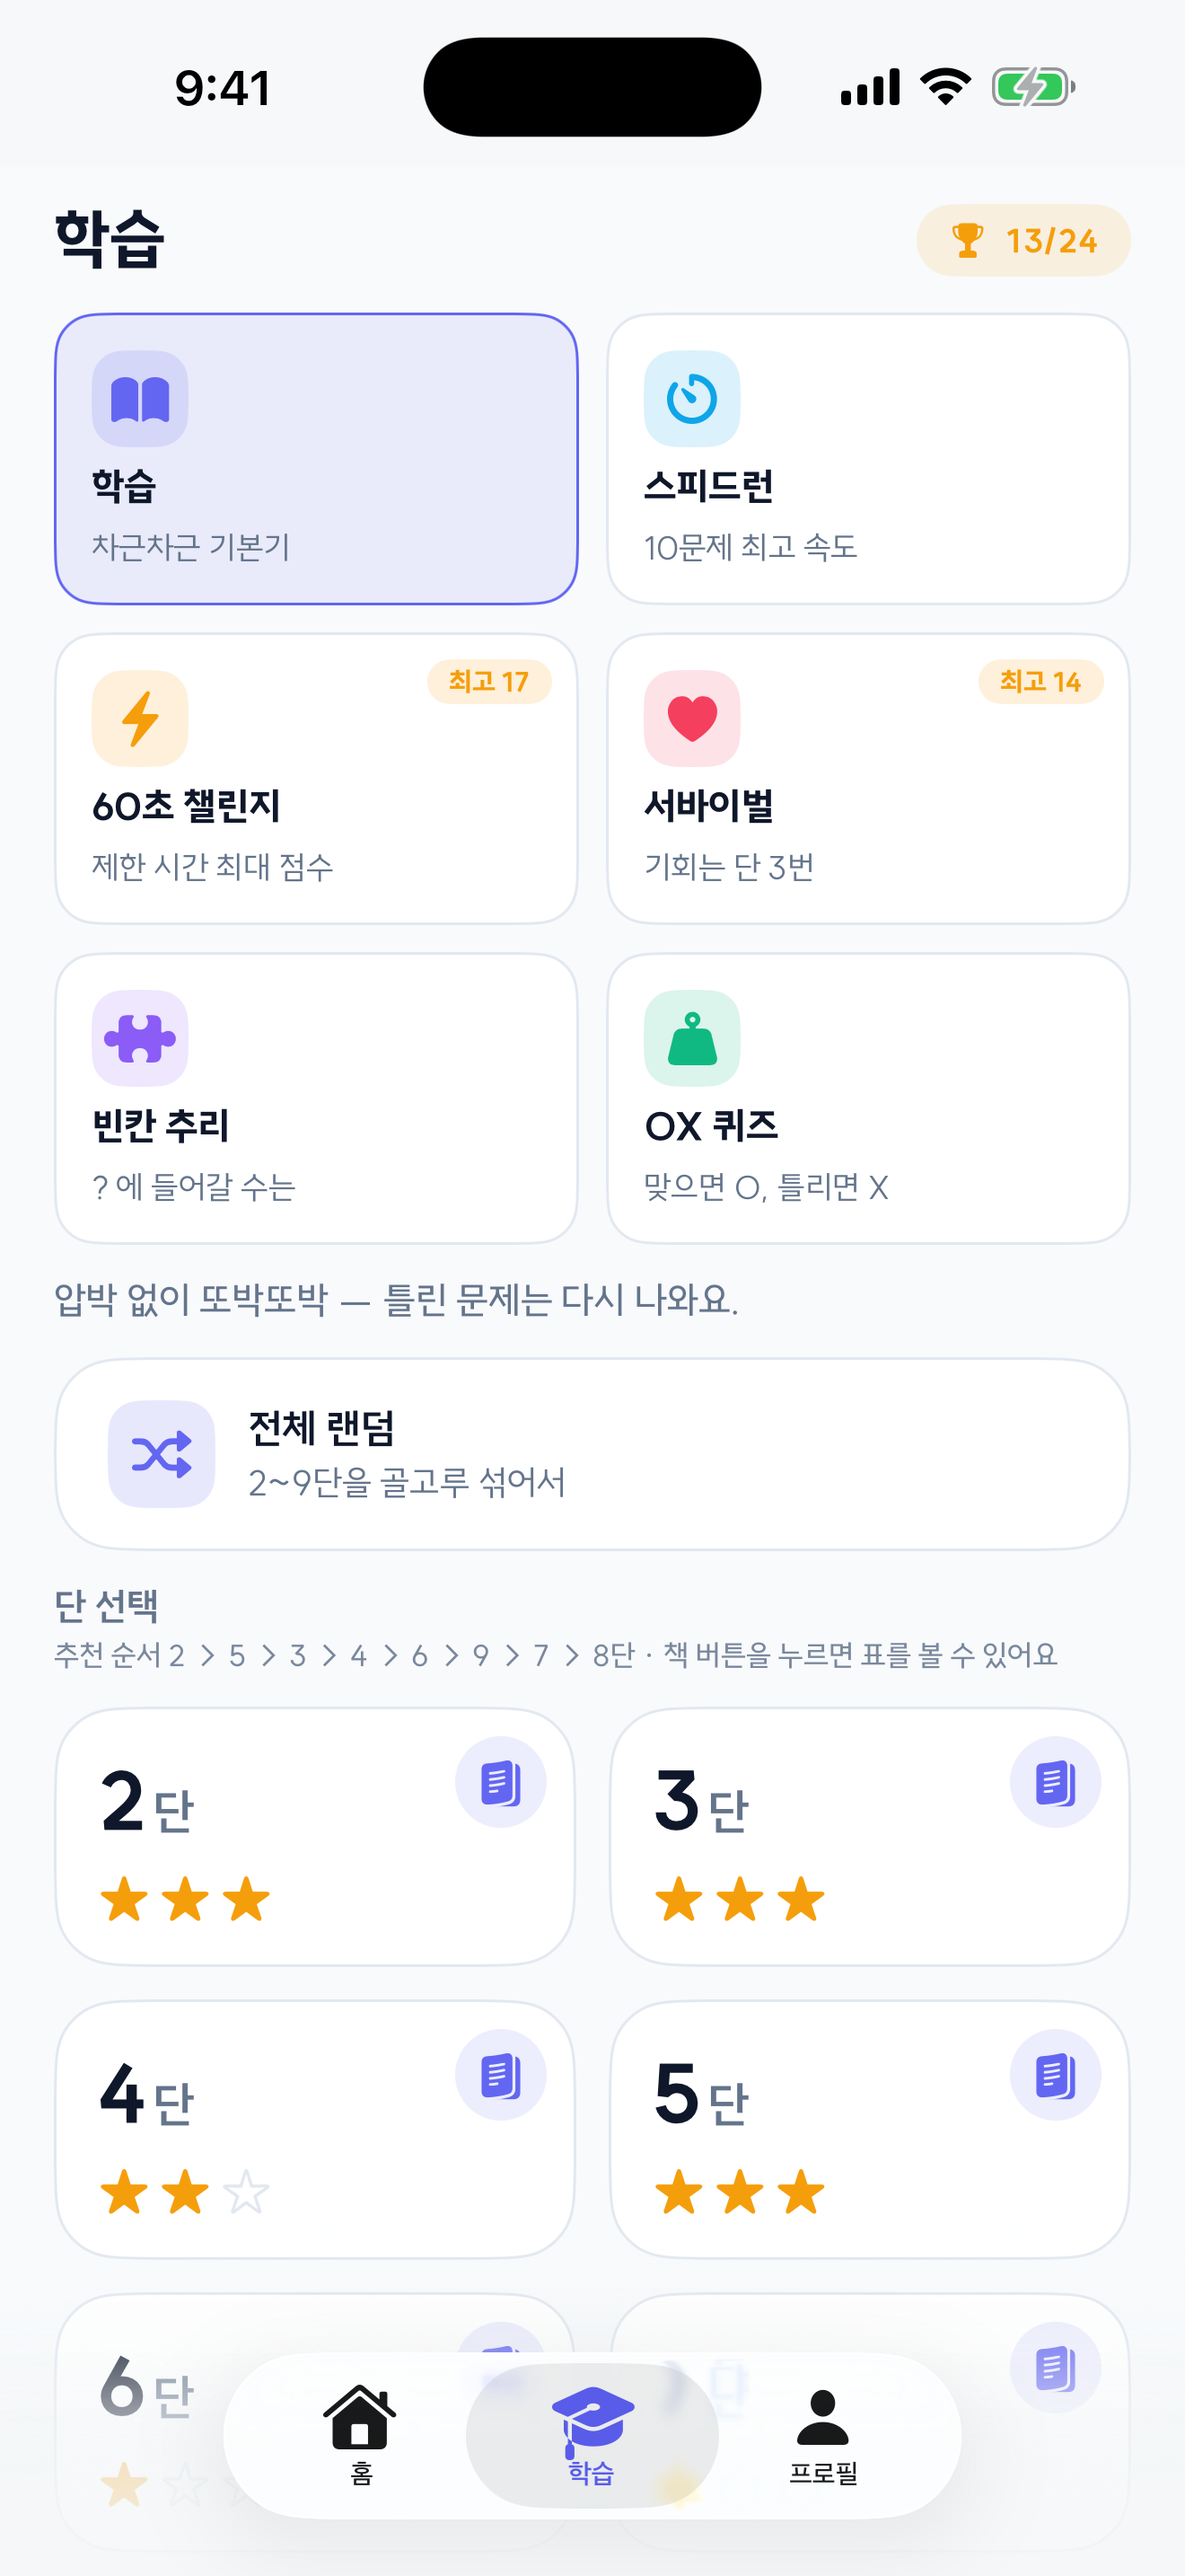
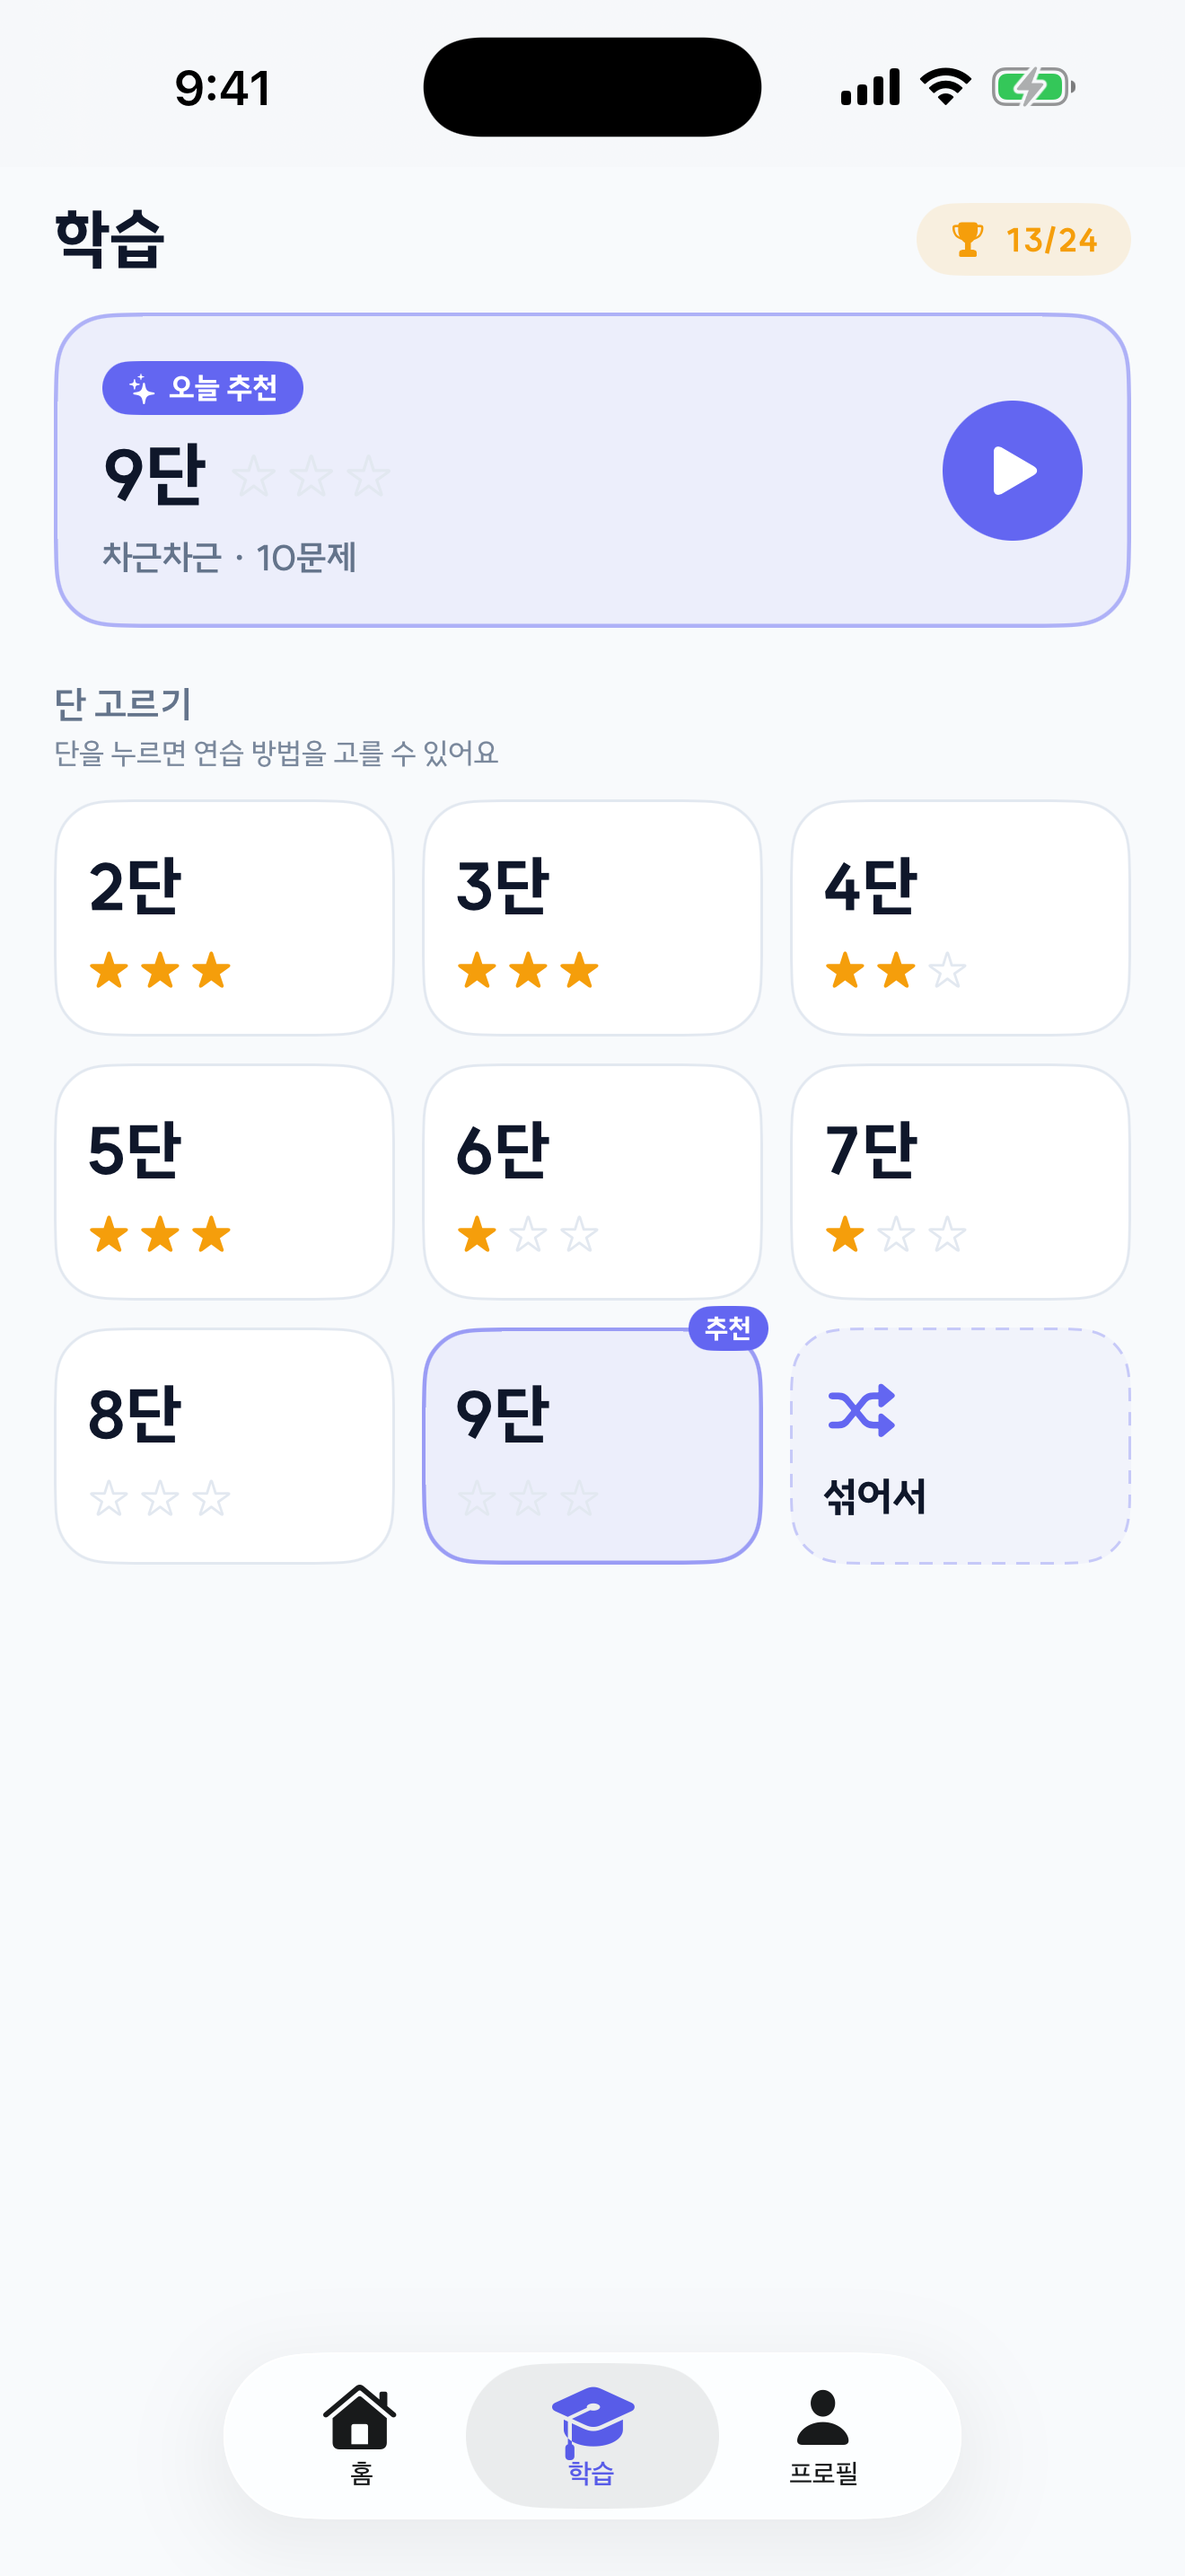
스토어 자산 2.7.0 — 스크린샷(학습 탭·구구 팡팡)·헤더·검색 결과 크리에이티브
- screenshots-2.7.0: ko·en·ja iPhone 9장·iPad 7장, Play 폰 8장·태블릿 7장
  (구구 팡팡 장 추가, '6가지 게임 모드' → 새 학습 탭, Play 폰은 8장 상한이라 미니게임 장 대신 팡팡)
- 원본 재촬영: 홈(오늘 추천 단 카드)·표(뒤에 옛 학습 탭이 비치던 것)·학습·팡팡
- creative-2.7.0: ko·en·ja 헤더 21:9·검색 결과 3:2 — 새 홈·구구 팡팡 화면, 새 아이콘

diff --git a/store-assets/creative-2.7.0/creative.py b/store-assets/creative-2.7.0/creative.py
@@ -1,0 +1,118 @@
+"""App Store 크리에이티브 자산 (2.7.0 한국어·영어·일본어) — 제품 페이지 헤더(21:9) · 검색 결과(3:2).
+
+사용: python3 creative.py [ko|en|ja]
+규격(App Store Connect Help, Creative assets specifications):
+  헤더 21:9 3840x1646, 검색 결과 3:2 3840x2560 — JPEG/PNG, 알파 채널 금지.
+가이드: 실제 UI, 초점은 가운데(기기별로 좌우가 잘림), 짧은 문구, 가격·URL·수상 표기 금지, 4+ 등급.
+구성·문구는 2.6.0 판(creative-2.6.0)과 같고, 화면만 2.7.0 원본으로 바꾼다 — 새 홈(오늘 추천 단)과 미니게임 자리에
+새 아케이드 게임 구구 팡팡. 한국어 원본은 screenshots-2.3.0/raw/ios, 영어·일본어는 screenshots-2.6.0/raw/ios-{언어}.
+글꼴은 screenshots-2.6.0/compose.py 의 언어별 글꼴(한국어·영어 SUITE, 일본어 M PLUS Rounded 1c)을 쓴다.
+"""
+import os
+import sys
+
+from PIL import Image, ImageDraw
+
+HERE = os.path.dirname(os.path.abspath(__file__))
+STORE = os.path.join(HERE, "..")
+RAW = {"ko": os.path.join(STORE, "screenshots-2.3.0", "raw", "ios"),
+       "en": os.path.join(STORE, "screenshots-2.6.0", "raw", "ios-en"),
+       "ja": os.path.join(STORE, "screenshots-2.6.0", "raw", "ios-ja")}
+LANGS = [sys.argv[1]] if len(sys.argv) > 1 else ["ko", "en", "ja"]
+sys.argv = [sys.argv[0], HERE]          # compose.py 가 출력 폴더 인자를 읽는다 — 함수만 빌려 쓴다
+sys.path.insert(0, os.path.join(STORE, "screenshots-2.6.0"))
+import compose  # noqa: E402
+from compose import gradient, tile, rounded, device, shadow, ICON  # noqa: E402
+
+BG = ("#6366F1", "#3730A3")             # 홈 슬라이드·앱 아이콘과 같은 인디고 계열
+APP_NAME = {"ko": "구구 어드벤처", **compose.APP_NAME}
+COPY = {
+    "ko": ("구구단이 모험이 된다", "3D 월드 · 배틀 · 미니게임으로 매일 1분"),
+    "en": ("Times tables, now an adventure", "3D world · battles · mini-games, one minute a day"),
+    "ja": ("九九が冒険になる", "3Dワールド・バトル・ミニゲームで毎日1分"),
+}
+
+
+def font(weight, size):
+    return compose.font(weight, size)
+
+
+def phone(lang, name, screen_w):
+    return device(Image.open(os.path.join(RAW[lang], name + ".png")), screen_w, "phone")
+
+
+def place(img, dev, cx, top, u, angle=0):
+    if angle:
+        dev = dev.rotate(angle, resample=Image.BICUBIC, expand=True)
+    blur = round(36 * u)
+    sh = shadow(dev, blur, 100)
+    x = round(cx - dev.width / 2)
+    img.alpha_composite(sh, (x - 2 * blur, top - 2 * blur + round(26 * u)))
+    img.alpha_composite(dev, (x, top))
+
+
+def motifs(img, W, H, u, spots):
+    tint, gtint = (255, 255, 255, 40), (55, 48, 163, 150)
+    for fx, fy, size, ang, g in spots:
+        t = tile(round(size * u), g, tint, gtint, ang)
+        img.alpha_composite(t, (round(fx * W - t.width / 2), round(fy * H - t.height / 2)))
+
+
+def headline(img, W, y, u, title_size, sub_size, lang):
+    title, sub = COPY[lang]
+    name = APP_NAME[lang]
+    d = ImageDraw.Draw(img)
+    icon = rounded(Image.open(ICON).convert("RGBA").resize((round(88 * u),) * 2, Image.LANCZOS), round(20 * u))
+    name_f = font("ExtraBold", round(46 * u))
+    total = icon.width + round(18 * u) + name_f.getlength(name)
+    x0 = round((W - total) / 2)
+    img.alpha_composite(icon, (x0, y))
+    d.text((x0 + icon.width + round(18 * u), y + icon.height / 2), name, font=name_f, fill=(255, 255, 255), anchor="lm")
+    y += icon.height + round(30 * u)
+    tf = font("Heavy", round(title_size * u))
+    d.text((W / 2, y), title, font=tf, fill=(255, 255, 255), anchor="ma")
+    y += round(tf.size * 1.22)
+    sf = font("SemiBold", round(sub_size * u))
+    d.text((W / 2, y), sub, font=sf, fill=(224, 231, 255), anchor="ma")
+    return y + round(sf.size * 1.7)
+
+
+def header(lang):
+    """21:9 — 가운데 좁은 영역만 보여도 성립하게: 문구·주인공 화면(3D 월드)을 중앙에, 새 홈·구구 팡팡을 그 양옆에"""
+    W, H = 3840, 1646
+    u = 1.0
+    img = gradient(W, H, *BG).convert("RGBA")
+    motifs(img, W, H, u, [(0.06, 0.30, 190, -12, "×"), (0.94, 0.26, 170, 10, "9"),
+                          (0.12, 0.82, 150, 8, "★"), (0.89, 0.80, 200, -8, "2")])
+    y = headline(img, W, round(70 * u), u, 112, 48, lang)
+    w = 470
+    # 양옆 → 가운데 순으로 겹쳐 그린다 (가운데가 맨 위)
+    for name, dx, dy, ang in (("07-report", -1260, 150, 6), ("03-battle", 1260, 150, -6),
+                              ("01-home", -660, 60, 3), ("09-pop", 660, 60, -3)):
+        place(img, phone(lang, name, w), W / 2 + dx, y + dy, u, ang)
+    place(img, phone(lang, "02-world", 540), W / 2, y - 10, u)
+    return img.convert("RGB")
+
+
+def search(lang):
+    """3:2 — 검색 결과 카드: 문구 + 기기 3대(배틀 · 3D 월드 · 구구 팡팡)"""
+    W, H = 3840, 2560
+    u = 1.3
+    img = gradient(W, H, *BG).convert("RGBA")
+    motifs(img, W, H, u, [(0.07, 0.40, 170, -12, "×"), (0.93, 0.36, 160, 10, "9"),
+                          (0.08, 0.86, 150, 8, "★"), (0.92, 0.88, 180, -8, "2")])
+    y = headline(img, W, round(110 * u), u, 120, 52, lang)
+    for name, dx, dy, ang, w in (("03-battle", -980, 120, 4, 760), ("09-pop", 980, 120, -4, 760),
+                                 ("02-world", 0, 0, 0, 860)):
+        place(img, phone(lang, name, w), W / 2 + dx, y + dy, u, ang)
+    return img.convert("RGB")
+
+
+if __name__ == "__main__":
+    for lang in LANGS:
+        compose.LANG = lang
+        for name, im in ((f"header-21x9-3840x1646-{lang}.png", header(lang)),
+                         (f"search-3x2-3840x2560-{lang}.png", search(lang))):
+            path = os.path.join(HERE, name)
+            im.save(path, optimize=True)
+            print(name, im.size, im.mode, os.path.getsize(path) // 1024, "KB")

diff --git a/store-assets/screenshots-2.6.0/compose.py b/store-assets/screenshots-2.6.0/compose.py
@@ -29,7 +29,8 @@ COPY = {
         "session": ("A teacher reads aloud", "Every problem, read aloud · even offline"),
         "table": ("See it, hear it, learn it", "Tips for every table, plus Listen & Learn"),
         "minigame": ("Run, jump, multiply", "Gugu Jump · Lanes · Basket"),
-        "learn": ("6 game modes", "From Speed Run to True or False"),
+        "learn": ("Pick a table, play now", "Today's pick and every table from 2 to 9"),
+        "pop": ("Pop the right balloons", "Burst only the answers, then beat the boss"),
         "report": ("See the progress", "Weekly reports show the trickiest problems"),
     },
     "ja": {
@@ -39,7 +40,8 @@ COPY = {
         "session": ("先生が読み上げる", "問題を声で聞ける・オフラインでもOK"),
         "table": ("見て、聞いて、おぼえる", "「ににんが し」伝統の唱え方を先生の声で"),
         "minigame": ("走って解く九九", "ジャンプ・レーン・バスケットで体を動かそう"),
-        "learn": ("6つのゲームモード", "スピードランから○×クイズまで"),
+        "learn": ("段をえらんで すぐスタート", "きょうのおすすめと 2〜9の段が ひと目で"),
+        "pop": ("ふうせんをパン！で九九", "ミッションに あう数だけ わって ボスをたおそう"),
         "report": ("成長が目に見える", "週間レポートでよく間違える問題もひと目で"),
     },
 }
@@ -58,8 +60,10 @@ SLIDES = {
                     bg=("#FCD34D", "#F59E0B"), dark=True, glyphs="7×★"),
     "minigame": dict(title="달리며 푸는 구구단", sub="점프 · 레인 · 바구니, 움직이며 놀아요",
                      bg=("#2DD4BF", "#0F766E"), glyphs="×5?"),
-    "learn":   dict(title="6가지 게임 모드", sub="스피드런부터 OX 퀴즈까지",
+    "learn":   dict(title="단 고르고 바로 시작", sub="오늘 추천 단부터 2~9단까지 한눈에",
                     bg=("#FDE68A", "#FBBF24"), dark=True, glyphs="60×"),
+    "pop":     dict(title="풍선 팡팡, 구구단!", sub="미션에 맞는 풍선만 터뜨리고 보스를 물리쳐요",
+                    bg=("#38BDF8", "#2563EB"), glyphs="★×8"),
     "report":  dict(title="성장이 눈에 보여요", sub="주간 리포트로 자주 틀린 문제까지 한눈에",
                     bg=("#334155", "#0F172A"), glyphs="★17"),
 }
@@ -68,23 +72,26 @@ SETS_ALL = {
     # 출력명: (캔버스, 원본폴더, [(순번-이름, 원본파일, 슬라이드)], 기기 종류)
     "ios-phone": ((1320, 2868), "ios", [
         ("01-home", "01-home", "home"), ("02-world", "02-world", "world"), ("03-battle", "03-battle", "battle"),
-        ("04-read-aloud", "04-session", "session"), ("05-table", "05-table", "table"),
-        ("06-minigame", "07-minigame", "minigame"), ("07-modes", "06-learn", "learn"), ("08-report", "07-report", "report"),
+        ("04-pop", "09-pop", "pop"), ("05-read-aloud", "04-session", "session"), ("06-table", "05-table", "table"),
+        ("07-learn", "06-learn", "learn"), ("08-minigame", "07-minigame", "minigame"), ("09-report", "07-report", "report"),
     ], "phone"),
     "ios-ipad": ((2064, 2752), "ipad", [
         ("01-home", "01-home", "home"), ("02-world", "02-world", "world"), ("03-battle", "02b-battle", "battle"),
-        ("04-read-aloud", "03-session", "session"), ("05-table", "05-table", "table"), ("06-report", "06-report", "report"),
+        ("04-pop", "07-pop", "pop"), ("05-read-aloud", "03-session", "session"), ("06-table", "05-table", "table"),
+        ("07-report", "06-report", "report"),
     ], "tablet"),
+    # Play 폰은 최대 8장 — 2.7.0 부터 미니게임 장 대신 구구 팡팡
     "play-phone": ((1080, 2400), "android", [
-        ("01-home", "01-home", "home"), ("02-battle", "03-battle", "battle"), ("03-read-aloud", "04-session", "session"),
-        ("04-table", "05-table", "table"), ("05-minigame", "07-minigame", "minigame"), ("06-world", "02-world", "world"),
-        ("07-modes", "06-learn", "learn"), ("08-report", "08-report", "report"),
+        ("01-home", "01-home", "home"), ("02-battle", "03-battle", "battle"), ("03-pop", "09-pop", "pop"),
+        ("04-read-aloud", "04-session", "session"), ("05-table", "05-table", "table"), ("06-world", "02-world", "world"),
+        ("07-learn", "06-learn", "learn"), ("08-report", "08-report", "report"),
     ], "android"),
 }
 # Play 태블릿 — 7형·10형 같은 그림 (Android 태블릿 에뮬레이터 실캡처, 장면은 iPad 세트와 같음)
 _PLAY_TABLET = [
     ("01-home", "01-home", "home"), ("02-world", "02-world", "world"), ("03-battle", "02b-battle", "battle"),
-    ("04-read-aloud", "03-session", "session"), ("05-table", "05-table", "table"), ("06-report", "06-report", "report"),
+    ("04-pop", "07-pop", "pop"), ("05-read-aloud", "03-session", "session"), ("06-table", "05-table", "table"),
+    ("07-report", "06-report", "report"),
 ]
 SETS_ALL["play-tablet-7"] = ((1600, 2560), "android-tablet", _PLAY_TABLET, "tablet")
 SETS_ALL["play-tablet-10"] = ((1600, 2560), "android-tablet", _PLAY_TABLET, "tablet")

diff --git a/store-assets/screenshots-2.3.0/compose.py b/store-assets/screenshots-2.3.0/compose.py
@@ -29,8 +29,10 @@ SLIDES = {
                     bg=("#FCD34D", "#F59E0B"), dark=True, glyphs="7×★"),
     "minigame": dict(title="달리며 푸는 구구단", sub="점프 · 레인 · 바구니, 움직이며 놀아요",
                      bg=("#2DD4BF", "#0F766E"), glyphs="×5?"),
-    "learn":   dict(title="6가지 게임 모드", sub="스피드런부터 OX 퀴즈까지",
+    "learn":   dict(title="단 고르고 바로 시작", sub="오늘 추천 단부터 2~9단까지 한눈에",
                     bg=("#FDE68A", "#FBBF24"), dark=True, glyphs="60×"),
+    "pop":     dict(title="풍선 팡팡, 구구단!", sub="미션에 맞는 풍선만 터뜨리고 보스를 물리쳐요",
+                    bg=("#38BDF8", "#2563EB"), glyphs="★×8"),
     "report":  dict(title="성장이 눈에 보여요", sub="주간 리포트로 자주 틀린 문제까지 한눈에",
                     bg=("#334155", "#0F172A"), glyphs="★17"),
 }
@@ -39,17 +41,19 @@ SETS = {
     # 출력명: (캔버스, 원본폴더, [(순번-이름, 원본파일, 슬라이드)], 기기 종류)
     "ios-phone": ((1320, 2868), "ios", [
         ("01-home", "01-home", "home"), ("02-world", "02-world", "world"), ("03-battle", "03-battle", "battle"),
-        ("04-read-aloud", "04-session", "session"), ("05-table", "05-table", "table"),
-        ("06-minigame", "07-minigame", "minigame"), ("07-modes", "06-learn", "learn"), ("08-report", "07-report", "report"),
+        ("04-pop", "09-pop", "pop"), ("05-read-aloud", "04-session", "session"), ("06-table", "05-table", "table"),
+        ("07-learn", "06-learn", "learn"), ("08-minigame", "07-minigame", "minigame"), ("09-report", "07-report", "report"),
     ], "phone"),
     "ios-ipad": ((2064, 2752), "ipad", [
         ("01-home", "01-home", "home"), ("02-world", "02-world", "world"), ("03-battle", "02b-battle", "battle"),
-        ("04-read-aloud", "03-session", "session"), ("05-table", "05-table", "table"), ("06-report", "06-report", "report"),
+        ("04-pop", "07-pop", "pop"), ("05-read-aloud", "03-session", "session"), ("06-table", "05-table", "table"),
+        ("07-report", "06-report", "report"),
     ], "tablet"),
+    # Play 폰은 최대 8장 — 2.7.0 부터 미니게임 장 대신 구구 팡팡
     "play-phone": ((1080, 2400), "android", [
-        ("01-home", "01-home", "home"), ("02-battle", "03-battle", "battle"), ("03-read-aloud", "04-session", "session"),
-        ("04-table", "05-table", "table"), ("05-minigame", "07-minigame", "minigame"), ("06-world", "02-world", "world"),
-        ("07-modes", "06-learn", "learn"), ("08-report", "08-report", "report"),
+        ("01-home", "01-home", "home"), ("02-battle", "03-battle", "battle"), ("03-pop", "09-pop", "pop"),
+        ("04-read-aloud", "04-session", "session"), ("05-table", "05-table", "table"), ("06-world", "02-world", "world"),
+        ("07-learn", "06-learn", "learn"), ("08-report", "08-report", "report"),
     ], "android"),
 }
 
